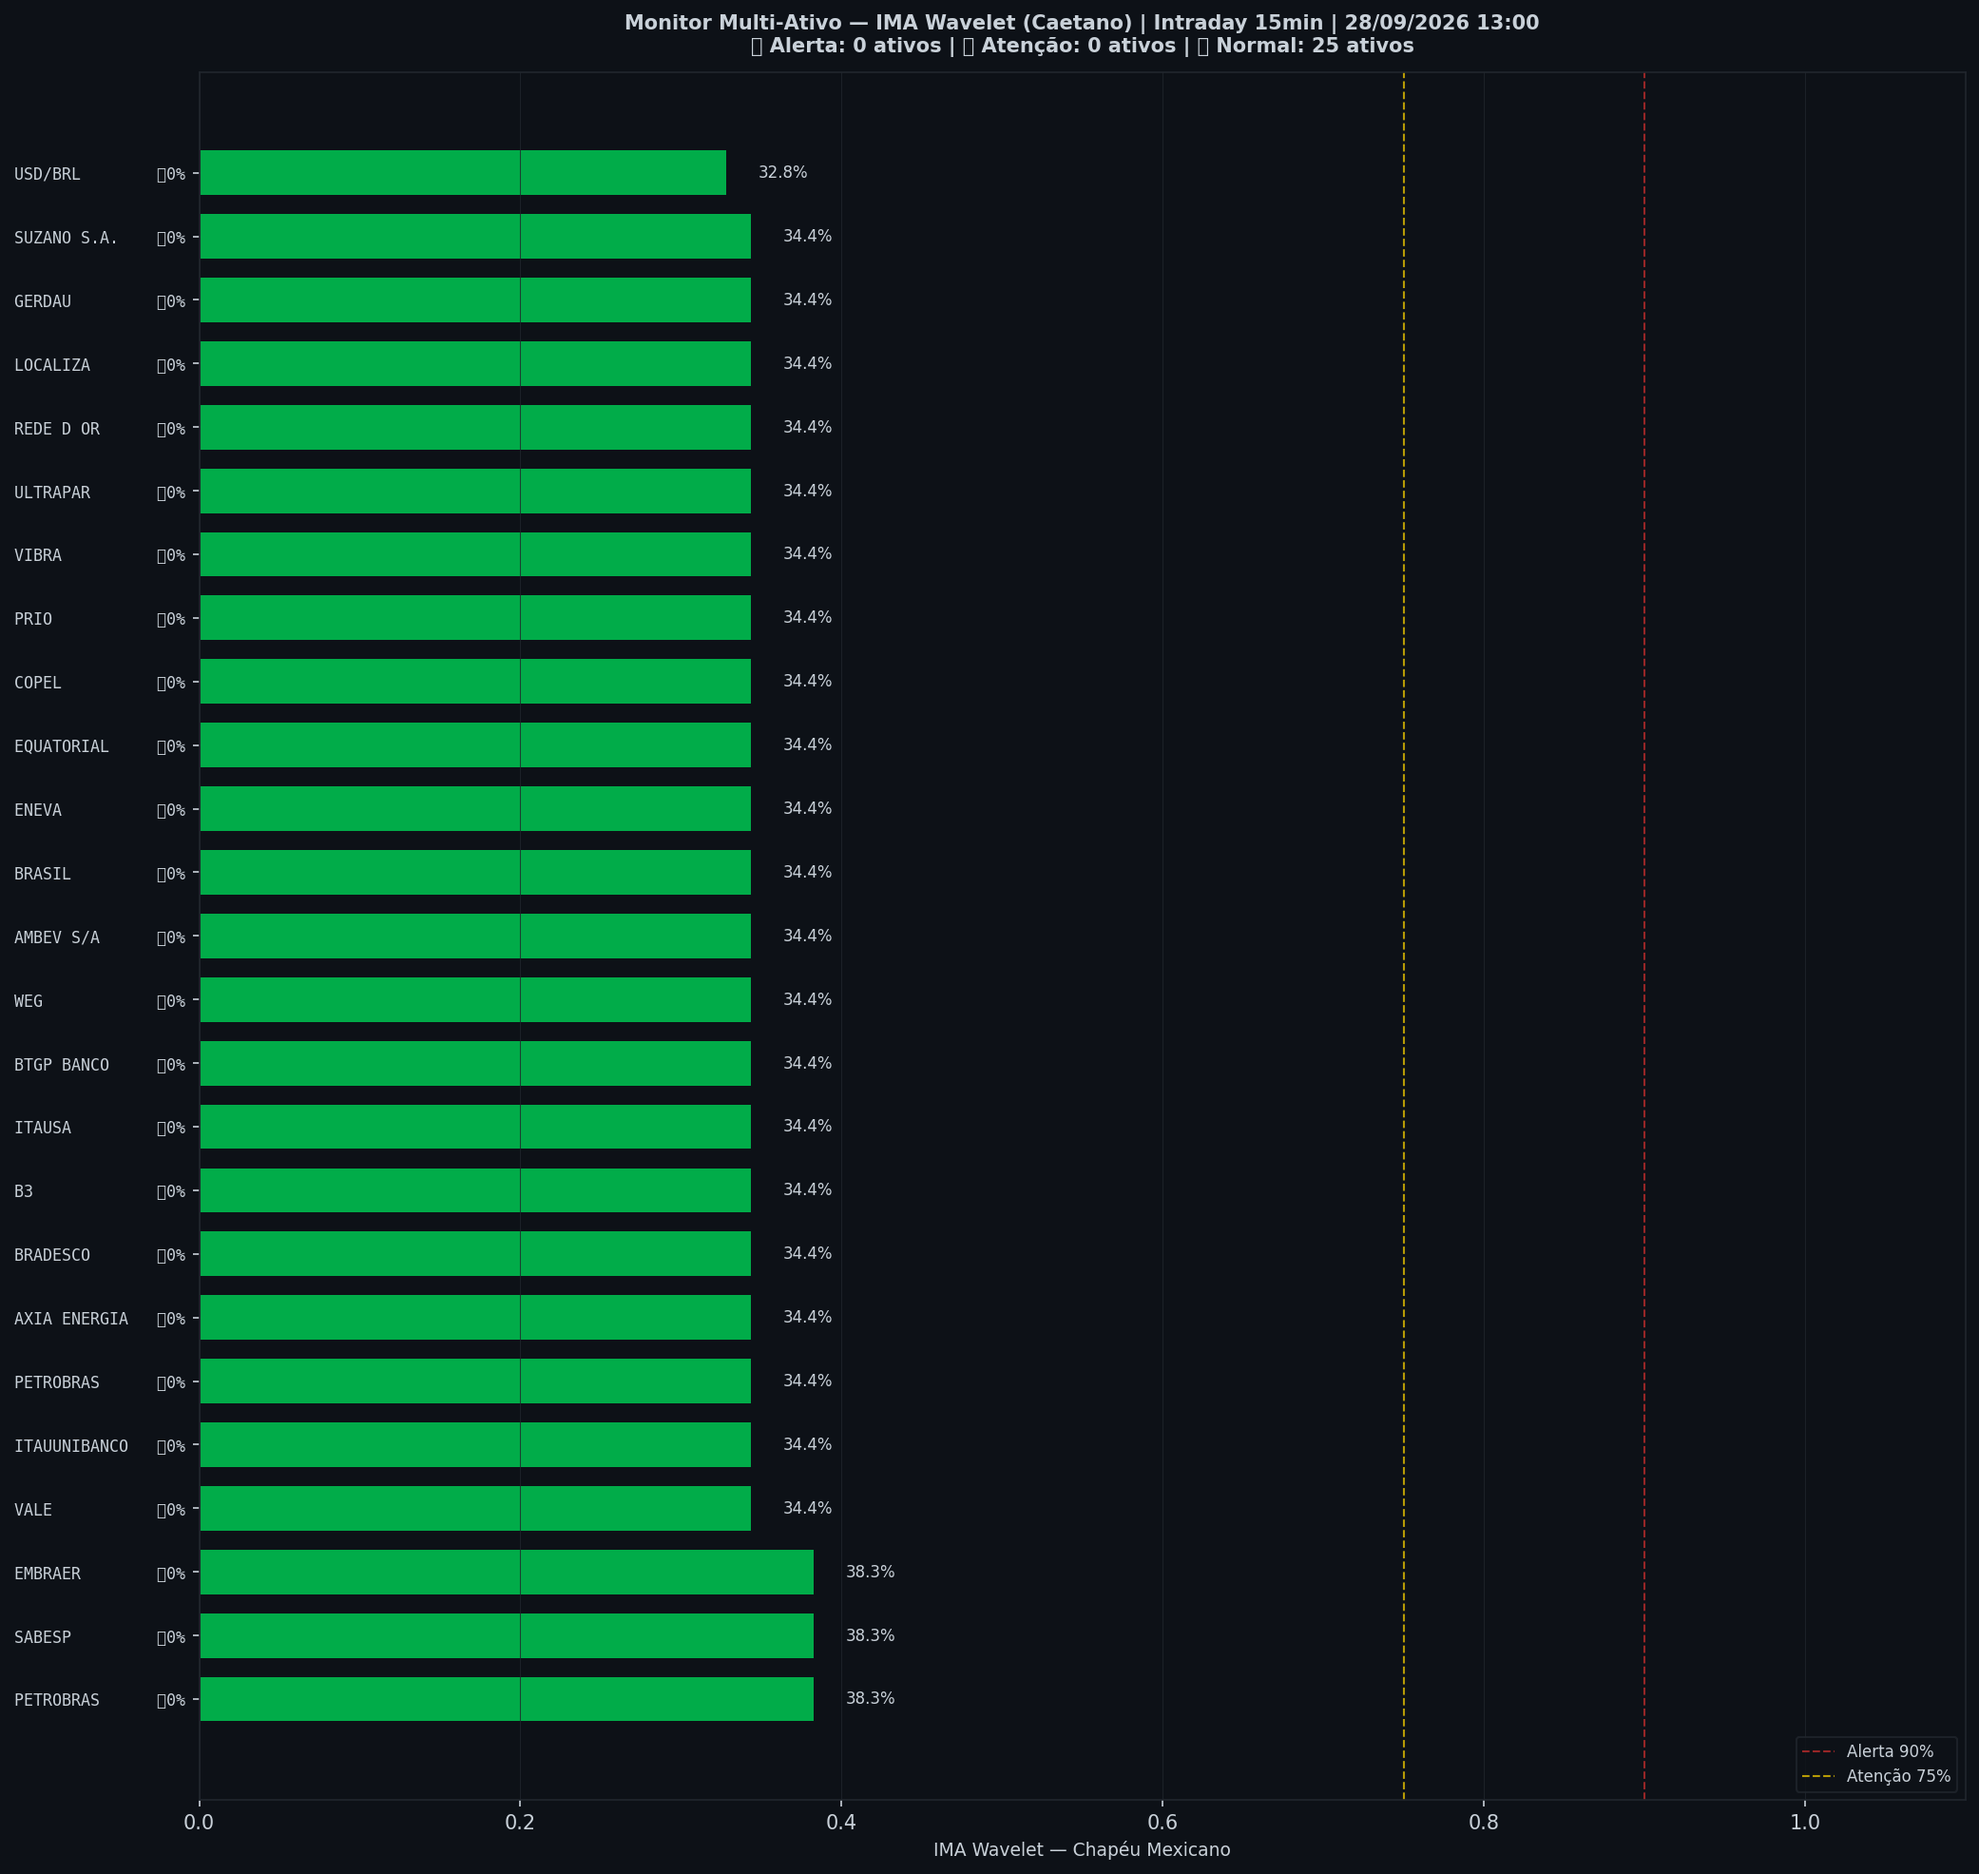
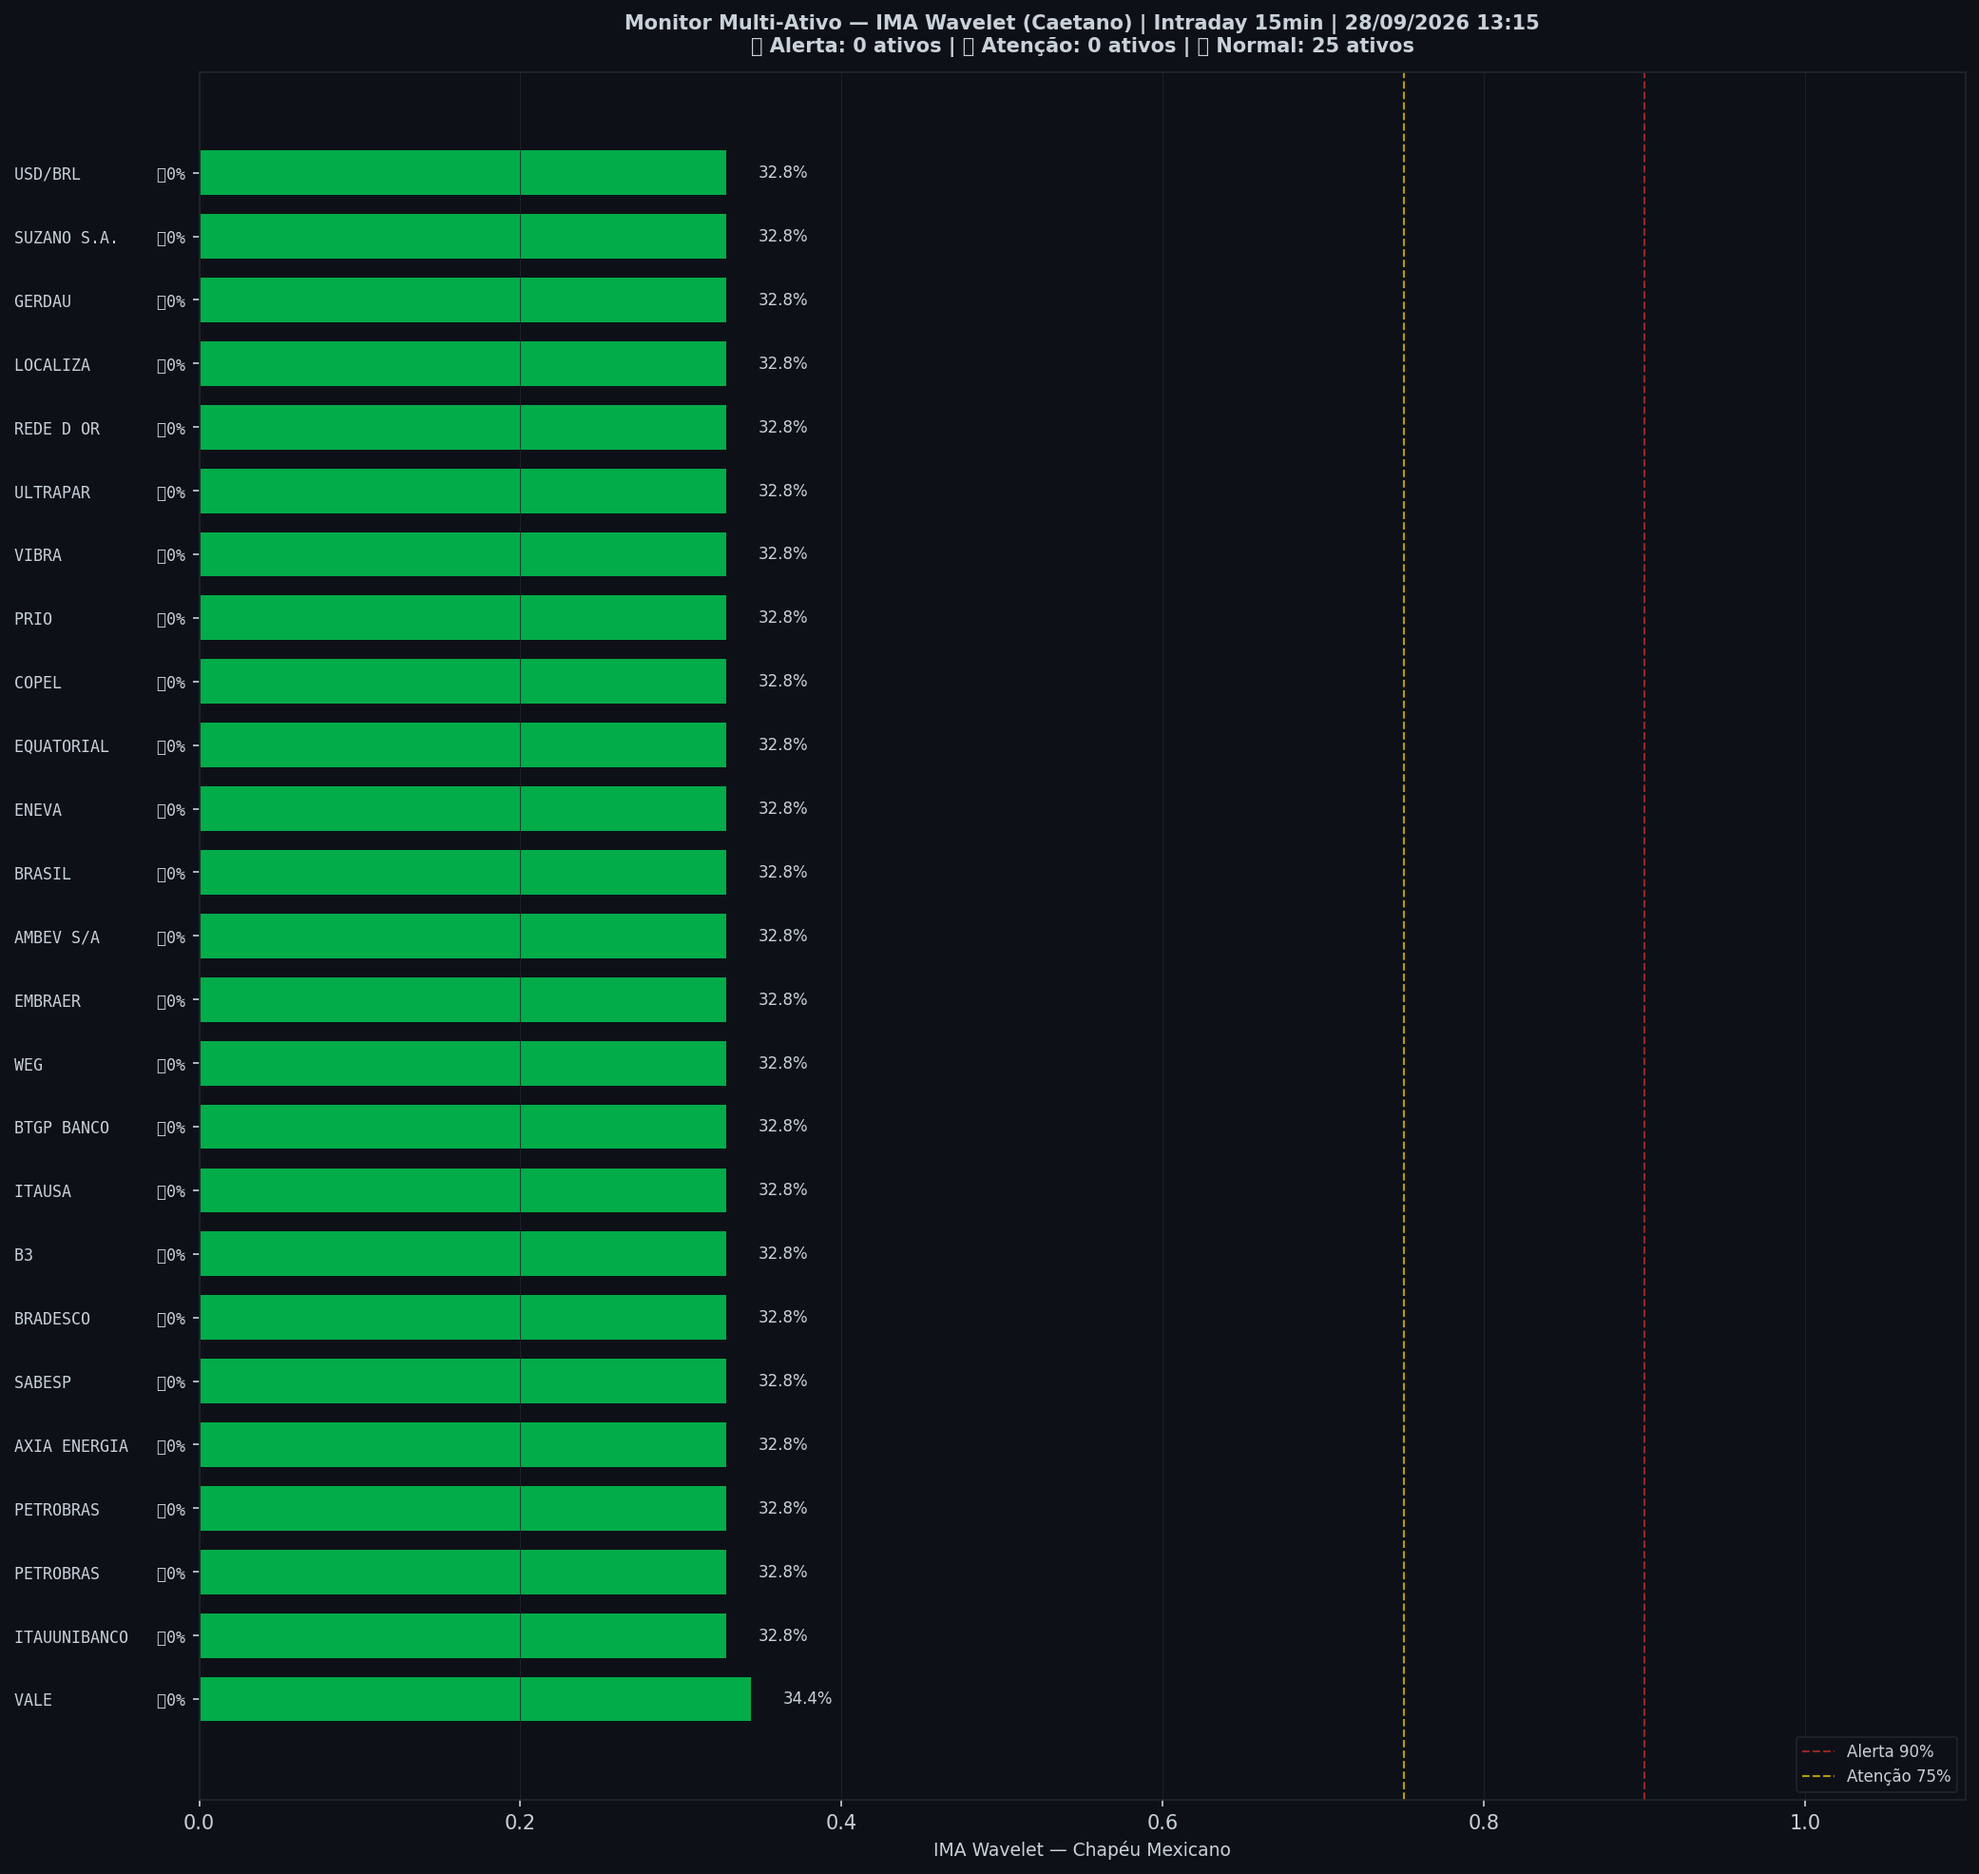
🤖 Auto: Sinal 28/09/2026 13:16

diff --git a/content/intraday/2026-09-28.md b/content/intraday/2026-09-28.md
@@ -1,20 +1,20 @@
 ---
-title: "🟢 Intraday 28/09/2026 12:15 BRT — VERDE"
+title: "🟢 Intraday 28/09/2026 12:30 BRT — VERDE"
 date: 2026-09-28
 tags: [intraday]
 ---
 
-> [!success] 🟢 **VERDE** — Risco 3% · ▼ -1 p.p. vs leitura anterior
-> `█░░░░░░░░░░░░░░░░░░░`
+> [!success] 🟢 **VERDE** — Risco 2% · ▼ -2 p.p. vs leitura anterior
+> `░░░░░░░░░░░░░░░░░░░░`
 > Mercado sem sinais relevantes de estresse.
 
 
 | Indicador | Valor |
 |---|---|
-| 🔴 ζ Crash — severidade da queda em curso | **3%** |
-| 🔵 ζ Entrada — estrutura de fundo | 38% |
+| 🔴 ζ Crash — severidade da queda em curso | **2%** |
+| 🔵 ζ Entrada — estrutura de fundo | 34% |
 | 🫧 LPPL DS-Confidence | 0% |
-| 📊 Ibovespa | 183.105 pts |
+| 📊 Ibovespa | 183.033 pts |
 
 ![Gráfico do sinal](../graficos/sinal_intraday.png)
 
@@ -22,6 +22,7 @@ tags: [intraday]
 
 | Data | Zona | Risco | IMA Crash | Entrada | LPPL |
 |---|---|---|---|---|---|
+| 2026-09-28 12:30 | 🟢 VERDE | **2%** | 2% | 34% | 0% |
 | 2026-09-28 12:15 | 🟢 VERDE | **3%** | 3% | 38% | 0% |
 | 2026-09-28 12:00 | 🟢 VERDE | **4%** | 4% | 40% | 0% |
 | 2026-09-28 11:45 | 🟢 VERDE | **2%** | 2% | 35% | 0% |
@@ -51,7 +52,6 @@ tags: [intraday]
 | 2026-09-25 12:45 | 🟢 VERDE | **0%** | 0% | 94% | 0% |
 | 2026-09-25 12:30 | 🟢 VERDE | **0%** | 0% | 96% | 0% |
 | 2026-09-25 12:15 | 🟢 VERDE | **0%** | 0% | 98% | 0% |
-| 2026-09-25 12:00 | 🟢 VERDE | **0%** | 0% | 100% | 0% |
 
 ## Monitor Multi-Ativo
 
@@ -59,35 +59,35 @@ tags: [intraday]
 
 | Zona | Ativo | Setor | IMA Crash | IMA Entrada |
 |---|---|---|---|---|
-| 🟢 | **PETROBRAS** | Petróleo | 38.3% | 0.0% |
-| 🟢 | **SABESP** | Saneamento | 38.3% | 0.0% |
-| 🟢 | **EMBRAER** | Outros | 38.3% | 0.0% |
 | 🟢 | **VALE** | Mineração | 34.4% | 0.0% |
-| 🟢 | **ITAUUNIBANCO** | Financeiro | 34.4% | 0.0% |
-| 🟢 | **PETROBRAS** | Petróleo | 34.4% | 0.0% |
-| 🟢 | **AXIA ENERGIA** | Energia | 34.4% | 0.0% |
-| 🟢 | **BRADESCO** | Financeiro | 34.4% | 0.0% |
-| 🟢 | **B3** | Financeiro | 34.4% | 0.0% |
-| 🟢 | **ITAUSA** | Financeiro | 34.4% | 0.0% |
-| 🟢 | **BTGP BANCO** | Financeiro | 34.4% | 0.0% |
-| 🟢 | **WEG** | Industrial | 34.4% | 0.0% |
-| 🟢 | **AMBEV S/A** | Consumo | 34.4% | 0.0% |
-| 🟢 | **BRASIL** | Financeiro | 34.4% | 0.0% |
-| 🟢 | **ENEVA** | Energia | 34.4% | 0.0% |
-| 🟢 | **EQUATORIAL** | Energia | 34.4% | 0.0% |
-| 🟢 | **COPEL** | Energia | 34.4% | 0.0% |
-| 🟢 | **PRIO** | Petróleo | 34.4% | 0.0% |
-| 🟢 | **VIBRA** | Energia | 34.4% | 0.0% |
-| 🟢 | **ULTRAPAR** | Outros | 34.4% | 0.0% |
-| 🟢 | **REDE D OR** | Saúde | 34.4% | 0.0% |
-| 🟢 | **LOCALIZA** | Aluguel | 34.4% | 0.0% |
-| 🟢 | **GERDAU** | Siderurgia | 34.4% | 0.0% |
-| 🟢 | **SUZANO S.A.** | Papel/Celulose | 34.4% | 0.0% |
+| 🟢 | **ITAUUNIBANCO** | Financeiro | 32.8% | 0.0% |
+| 🟢 | **PETROBRAS** | Petróleo | 32.8% | 0.0% |
+| 🟢 | **PETROBRAS** | Petróleo | 32.8% | 0.0% |
+| 🟢 | **AXIA ENERGIA** | Energia | 32.8% | 0.0% |
+| 🟢 | **SABESP** | Saneamento | 32.8% | 0.0% |
+| 🟢 | **BRADESCO** | Financeiro | 32.8% | 0.0% |
+| 🟢 | **B3** | Financeiro | 32.8% | 0.0% |
+| 🟢 | **ITAUSA** | Financeiro | 32.8% | 0.0% |
+| 🟢 | **BTGP BANCO** | Financeiro | 32.8% | 0.0% |
+| 🟢 | **WEG** | Industrial | 32.8% | 0.0% |
+| 🟢 | **EMBRAER** | Outros | 32.8% | 0.0% |
+| 🟢 | **AMBEV S/A** | Consumo | 32.8% | 0.0% |
+| 🟢 | **BRASIL** | Financeiro | 32.8% | 0.0% |
+| 🟢 | **ENEVA** | Energia | 32.8% | 0.0% |
+| 🟢 | **EQUATORIAL** | Energia | 32.8% | 0.0% |
+| 🟢 | **COPEL** | Energia | 32.8% | 0.0% |
+| 🟢 | **PRIO** | Petróleo | 32.8% | 0.0% |
+| 🟢 | **VIBRA** | Energia | 32.8% | 0.0% |
+| 🟢 | **ULTRAPAR** | Outros | 32.8% | 0.0% |
+| 🟢 | **REDE D OR** | Saúde | 32.8% | 0.0% |
+| 🟢 | **LOCALIZA** | Aluguel | 32.8% | 0.0% |
+| 🟢 | **GERDAU** | Siderurgia | 32.8% | 0.0% |
+| 🟢 | **SUZANO S.A.** | Papel/Celulose | 32.8% | 0.0% |
 | 🟢 | **USD/BRL** | Câmbio | 32.8% | 0.0% |
 
 ![Monitor multi-ativo](../graficos/multi_intraday.png)
 
-*Página atualizada em 28/09/2026 13:01 BRT (leitura da barra de 2026-09-28 12:15 BRT).*
+*Página atualizada em 28/09/2026 13:16 BRT (leitura da barra de 2026-09-28 12:30 BRT).*
 
 > [!info]- Como interpretar (clique para expandir)
 > - **ζ Crash**: fração dos coeficientes wavelet acima do corte (Caetano & Yoneyama 2009). Escala absoluta: ζ=0,90 = 90% dos coeficientes anômalos — historicamente, quedas com ζ≥0,90 foram mais fundas e mais longas. **Mede a severidade do movimento em curso, não prevê o início da queda.**

diff --git a/content/index.md b/content/index.md
@@ -8,19 +8,19 @@ tags: [home]
 
 Monitoramento diário e intraday do Ibovespa — **IMA Wavelet** (Prof. Marco Antonio Leonel Caetano, ITA/INSPER) + **LPPL DS-Confidence** (Prof. Didier Sornette, ETH-Zurich).
 
-*Última atualização: 28/09/2026 13:01 BRT · ^BVSP · Intraday 15min · v4*
+*Última atualização: 28/09/2026 13:16 BRT · ^BVSP · Intraday 15min · v4*
 
-> [!success] 🟢 **VERDE** — Risco 3% · ▼ -1 p.p. vs leitura anterior
-> `█░░░░░░░░░░░░░░░░░░░`
+> [!success] 🟢 **VERDE** — Risco 2% · ▼ -2 p.p. vs leitura anterior
+> `░░░░░░░░░░░░░░░░░░░░`
 > Mercado sem sinais relevantes de estresse.
 
 
 | Indicador | Valor |
 |---|---|
-| 🔴 ζ Crash — severidade da queda em curso | **3%** |
-| 🔵 ζ Entrada — estrutura de fundo | 38% |
+| 🔴 ζ Crash — severidade da queda em curso | **2%** |
+| 🔵 ζ Entrada — estrutura de fundo | 34% |
 | 🫧 LPPL DS-Confidence | 0% |
-| 📊 Ibovespa | 183.105 pts |
+| 📊 Ibovespa | 183.033 pts |
 
 **Multi-ativo:** 0% em tensão (0🔴 0🟡 de 25 ativos)
 
@@ -32,7 +32,7 @@ Monitoramento diário e intraday do Ibovespa — **IMA Wavelet** (Prof. Marco An
 
 | Data | Zona | Risco | IMA | LPPL |
 |---|---|---|---|---|
-| [28 Sep 2026](diario/2026-09-28) | 🟢 VERDE | **3%** | 3% | 0% |
+| [28 Sep 2026](diario/2026-09-28) | 🟢 VERDE | **2%** | 2% | 0% |
 | [25 Sep 2026](diario/2026-09-25) | 🟢 VERDE | **0%** | 0% | 0% |
 
 ## Navegação

diff --git a/content/historico.md b/content/historico.md
@@ -7,6 +7,7 @@ tags: [historico]
 
 | Data | Modo | Zona | Risco | IMA | LPPL |
 |---|---|---|---|---|---|
+| 2026-09-28 12:30 | intraday | 🟢 VERDE | 2% | 2% | 0% |
 | 2026-09-28 12:15 | intraday | 🟢 VERDE | 3% | 3% | 0% |
 | 2026-09-28 12:00 | intraday | 🟢 VERDE | 4% | 4% | 0% |
 | 2026-09-28 11:45 | intraday | 🟢 VERDE | 2% | 2% | 0% |
